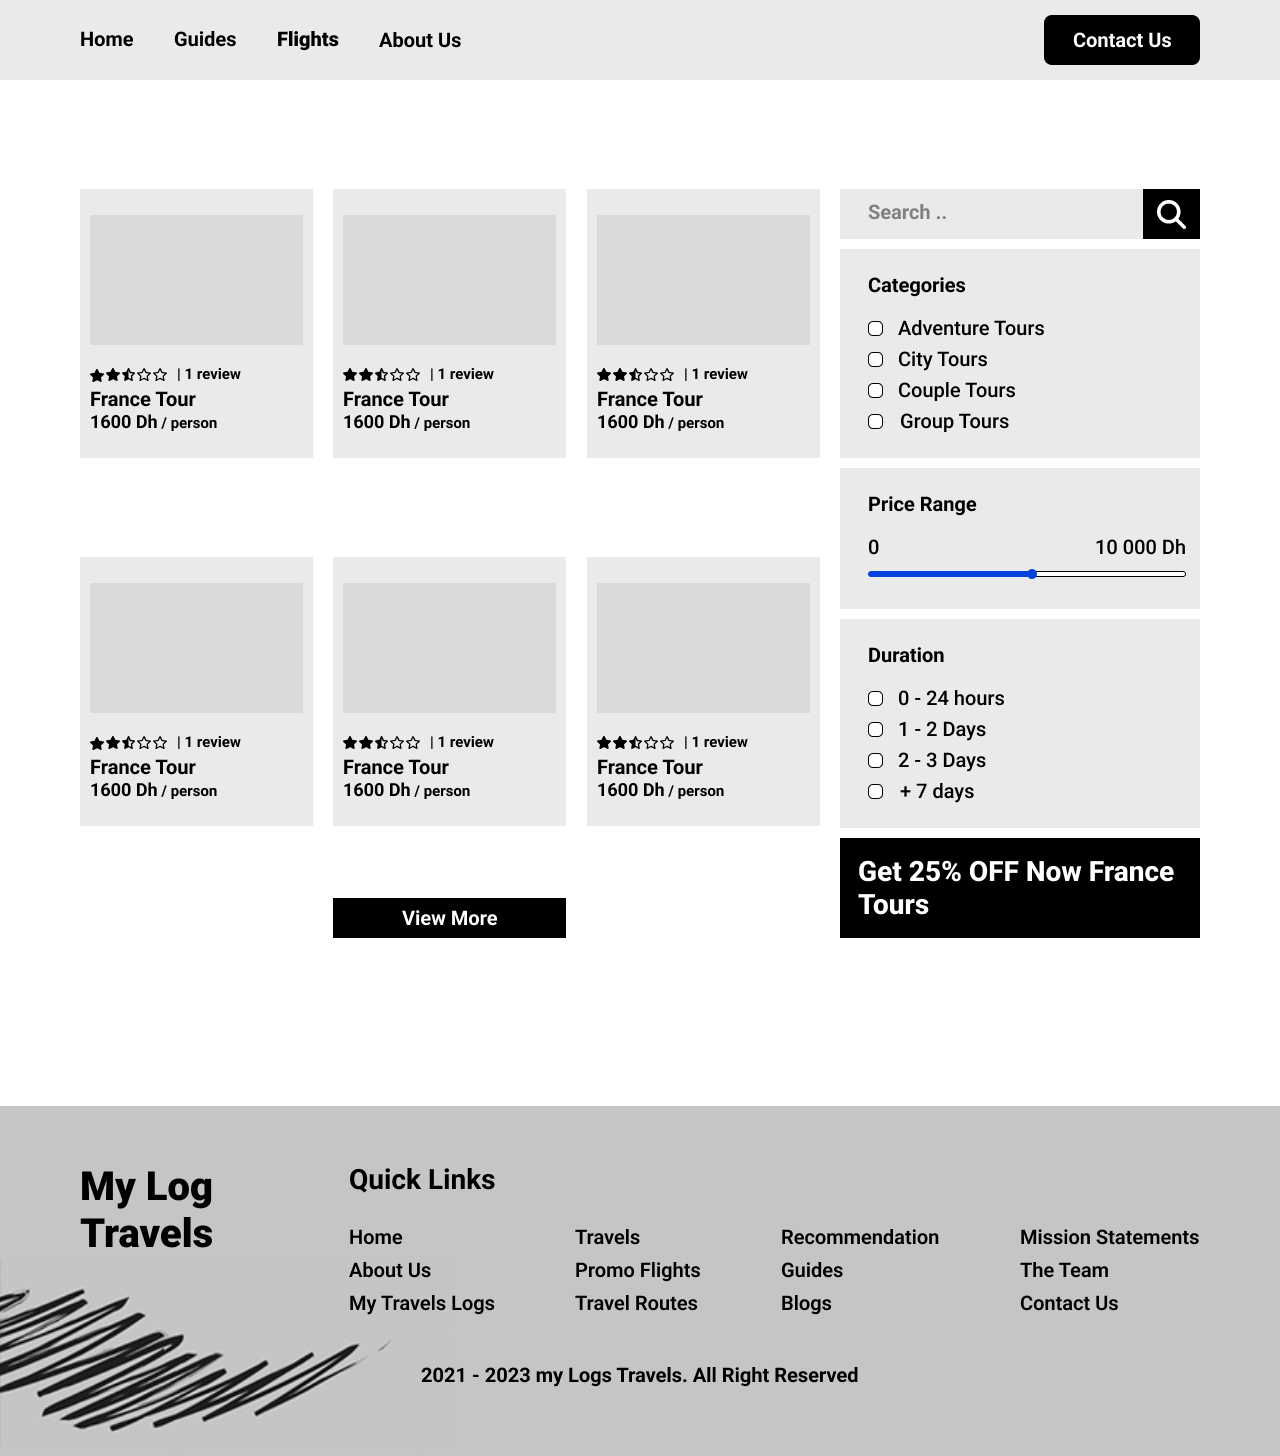
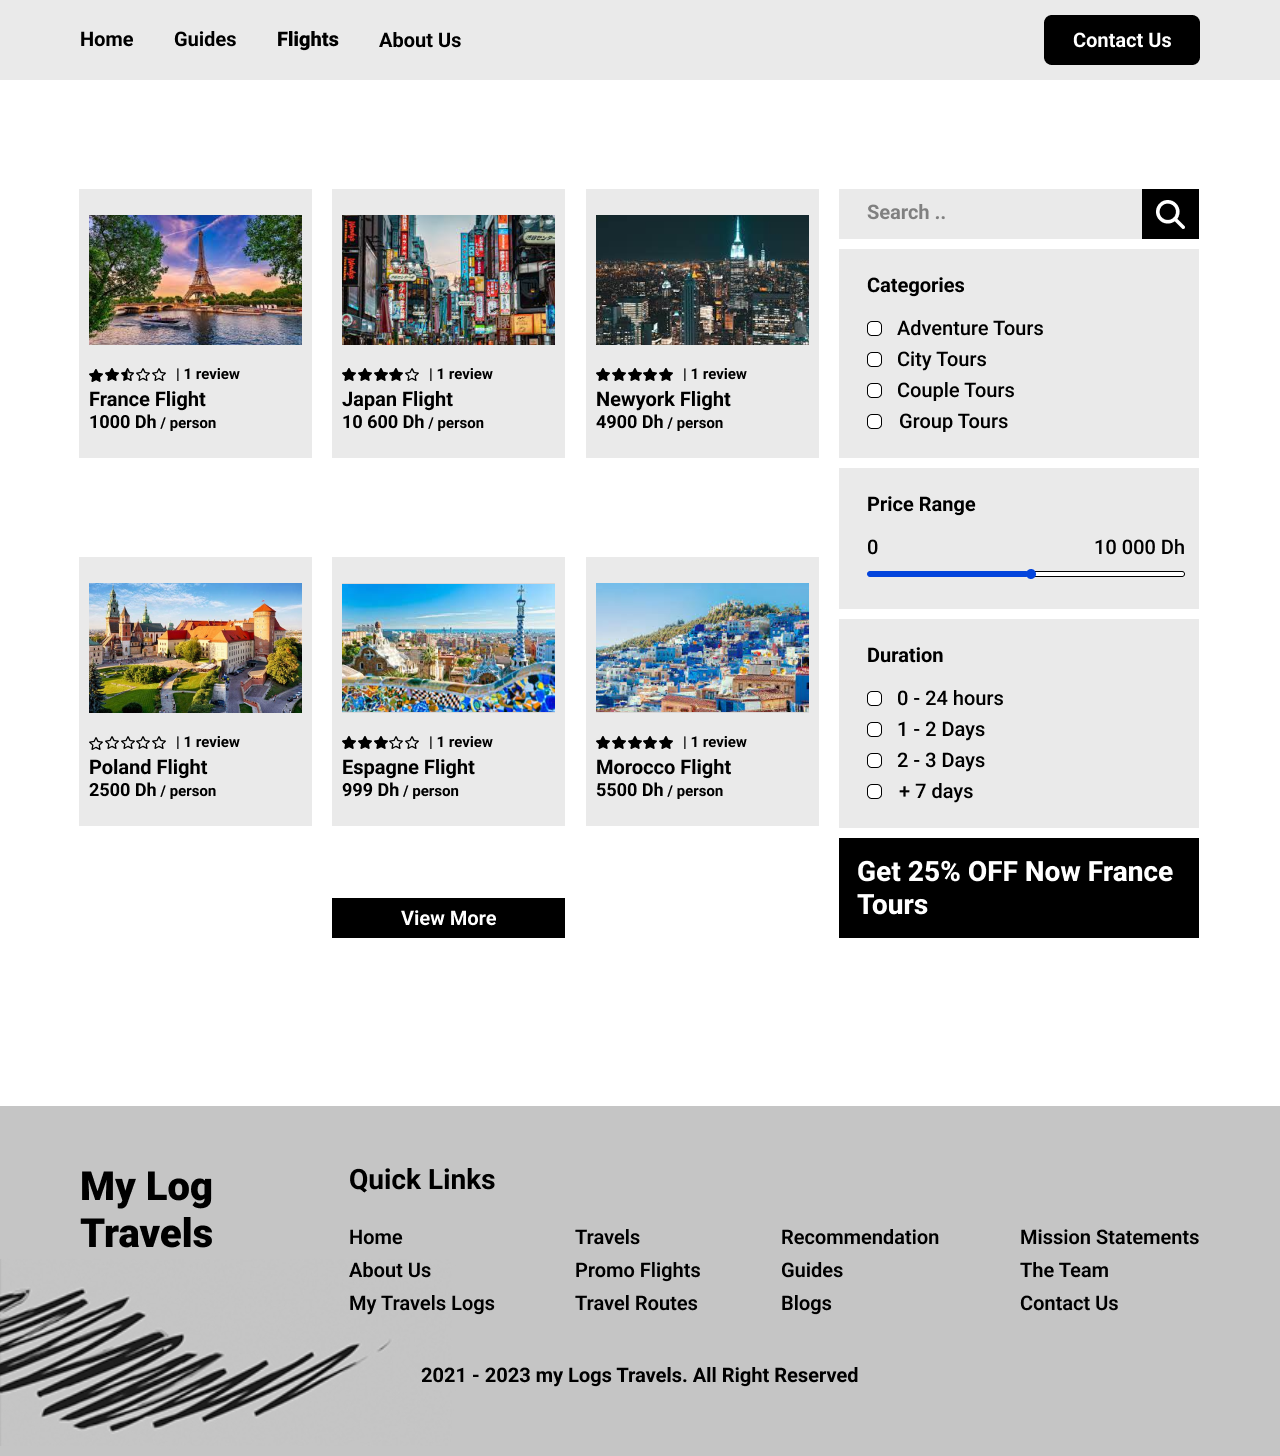
add information / different image

diff --git a/Assets/Html/Flights.html b/Assets/Html/Flights.html
@@ -48,7 +48,7 @@
                 <div class="flight-box">
 
                     <div class="flight-info">
-                        <img src="../Img/flight-img.png" alt="flight image" width="100%">
+                        <img src="../Img/Flights/france-img.png" alt="flight image" width="100%">
     
                         <div>
                             <i class="fa-solid fa-star"></i>
@@ -58,12 +58,12 @@
                             <i class="fa-regular fa-star"></i> <span>| 1 review</span>
                         </div>
     
-                        <h3>France Tour </h3>
-                        <p><span class="flight-price">1600 Dh </span>/ person</p>
+                        <h3>France Flight </h3>
+                        <p><span class="flight-price">1000 Dh </span>/ person</p>
                     </div>
     
                     <div class="flight-info">
-                        <img src="../Img/flight-img.png" alt="flight image" width="100%">
+                        <img src="../Img/Flights/Pland-img.png" alt="flight image" width="100%">
     
                         <div>
                             <i class="fa-solid fa-star"></i>
@@ -73,12 +73,12 @@
                             <i class="fa-regular fa-star"></i> <span>| 1 review</span>
                         </div>
     
-                        <h3>France Tour </h3>
-                        <p><span class="flight-price">1600 Dh </span>/ person</p>
+                        <h3>Japan Flight </h3>
+                        <p><span class="flight-price">10 600 Dh </span>/ person</p>
                     </div>
     
                     <div class="flight-info">
-                        <img src="../Img/flight-img.png" alt="flight image" width="100%">
+                        <img src="../Img/Flights/Newyork-img.png" alt="flight image" width="100%">
     
                         <div>
                             <i class="fa-solid fa-star"></i>
@@ -88,12 +88,12 @@
                             <i class="fa-solid fa-star"></i> <span>| 1 review</span>
                         </div>
     
-                        <h3>France Tour </h3>
-                        <p><span class="flight-price">1600 Dh </span>/ person</p>
+                        <h3>NewYork Flight</h3>
+                        <p><span class="flight-price">4999 Dh </span>/ person</p>
                     </div>
     
                     <div class="flight-info">
-                        <img src="../Img/flight-img.png" alt="flight image" width="100%">
+                        <img src="../Img/Flights/Pland-img.png" alt="flight image" width="100%">
     
                         <div>
                             <i class="fa-regular fa-star"></i>
@@ -103,12 +103,12 @@
                             <i class="fa-regular fa-star"></i> <span>| 0 review</span>
                         </div>
     
-                        <h3>France Tour </h3>
-                        <p><span class="flight-price">1600 Dh </span>/ person</p>
+                        <h3>Poland Flight </h3>
+                        <p><span class="flight-price">2500 Dh </span>/ person</p>
                     </div>
     
                     <div class="flight-info">
-                        <img src="../Img/flight-img.png" alt="flight image" width="100%">
+                        <img src="../Img/Flights/Espagne-img.png" alt="flight image" width="100%">
     
                         <div>
                             <i class="fa-solid fa-star"></i>
@@ -118,12 +118,12 @@
                             <i class="fa-regular fa-star"></i> <span>| 1 review</span>
                         </div>
     
-                        <h3>France Tour </h3>
-                        <p><span class="flight-price">1600 Dh </span>/ person</p>
+                        <h3>Espagne Flight </h3>
+                        <p><span class="flight-price">999 Dh </span>/ person</p>
                     </div>
     
                     <div class="flight-info">
-                        <img src="../Img/flight-img.png" alt="flight image" width="100%">
+                        <img src="../Img/Flights/Morocco-img.png" alt="flight image" width="100%">
     
                         <div>
                             <i class="fa-solid fa-star"></i>
@@ -133,8 +133,8 @@
                             <i class="fa-solid fa-star"></i> <span>| 5 review</span>
                         </div>
     
-                        <h3>France Tour </h3>
-                        <p><span class="flight-price">1600 Dh </span>/ person</p>
+                        <h3>Morocco Flight </h3>
+                        <p><span class="flight-price">5500 Dh </span>/ person</p>
                     </div>
 
                 </div>

diff --git a/Assets/Html/Guides.html b/Assets/Html/Guides.html
@@ -53,8 +53,8 @@
                 </div>
 
                 <div class="trip">
-                    <h3>20% off</h3>
-                    <h1>france trip</h1>
+                    <h3>25% off</h3>
+                    <h1>Japan trip</h1>
                     <p>Lorem ipsum dolor sit amet consectetur adipisicing elit. Porro repellendus dignissimos aliquam? Vel, in. Corporis!</p>
 
                     <a class="sp-btn" href="#">View More Details</a>
@@ -103,25 +103,25 @@
             <div class="testimonies-grp d-flex">
 
                 <div class="pr-grp">
-                    <img src="../Img/person-img.png" alt="A Person image">
-                    <h3>employee Name</h3>
+                    <img src="../Img/Person/employee-1.png" alt="A Employee image">
+                    <h3>Christian	Lee</h3>
                     <p><span>Phone :</span> +212 06 00 00 00 00</p>
-                    <p><span>Email :</span> email@gmail.com</p>
+                    <p><span>Email :</span> Christian-lee@gmail.com</p>
 
                 </div>
 
                 <div class="pr-grp">
-                    <img src="../Img/person-img.png" alt="A Person image">
-                    <h3>employee Name</h3>
+                    <img src="../Img/Person/employee-2.png" alt="A Employee image">
+                    <h3>Michael smith</h3>
                     <p><span>Phone :</span> +212 06 00 00 00 00</p>
-                    <p><span>Email :</span> email@gmail.com</p>
+                    <p><span>Email :</span> Michael-smith@gmail.com</p>
                 </div>
 
                 <div class="pr-grp">
-                    <img src="../Img/person-img.png" alt="A Person image">
-                    <h3>employee Name</h3>
+                    <img src="../Img/Person/employee-3.png" alt="A Employee image">
+                    <h3>Debra J. Denny</h3>
                     <p><span>Phone :</span> +212 06 00 00 00 00</p>
-                    <p><span>Email :</span> email@gmail.com</p>
+                    <p><span>Email :</span> debra-denny@gmail.com</p>
                 </div>
 
             </div>

diff --git a/Assets/Html/About-us.html b/Assets/Html/About-us.html
@@ -82,20 +82,20 @@
             <div class="testimonies-grp d-flex">
 
                 <div class="pr-grp">
-                    <img src="../Img/person-img.png" alt="A Person image">
-                    <h3>Customer Name</h3>
+                    <img src="../Img/Person/person-1.png" alt="A Person image">
+                    <h3>Victor Paige</h3>
                     <p>Lorem ipsum, dolor sit amet consectetur adipisicing elit. Consectetur harum accusantium distinctio eos facere at nihil expedita mollitia consequatur a!</p>
                 </div>
 
                 <div class="pr-grp">
-                    <img src="../Img/person-img.png" alt="A Person image">
-                    <h3>Customer Name</h3>
+                    <img src="../Img/Person/person-2.png" alt="A Person image">
+                    <h3>Frank Rutherford</h3>
                     <p>Lorem ipsum, dolor sit amet consectetur adipisicing elit. Consectetur harum accusantium distinctio eos facere at nihil expedita mollitia consequatur a!</p>
                 </div>
 
                 <div class="pr-grp">
-                    <img src="../Img/person-img.png" alt="A Person image">
-                    <h3>Customer Name</h3>
+                    <img src="../Img/Person/person-3.png" alt="A Person image">
+                    <h3>Rachel	McLean</h3>
                     <p>Lorem ipsum, dolor sit amet consectetur adipisicing elit. Consectetur harum accusantium distinctio eos facere at nihil expedita mollitia consequatur a!</p>
                 </div>
 
